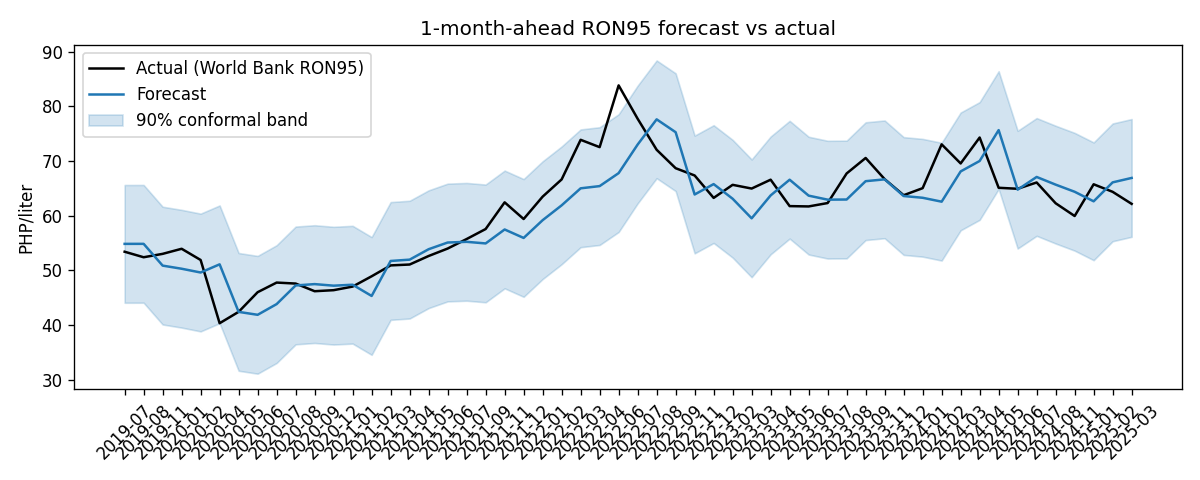
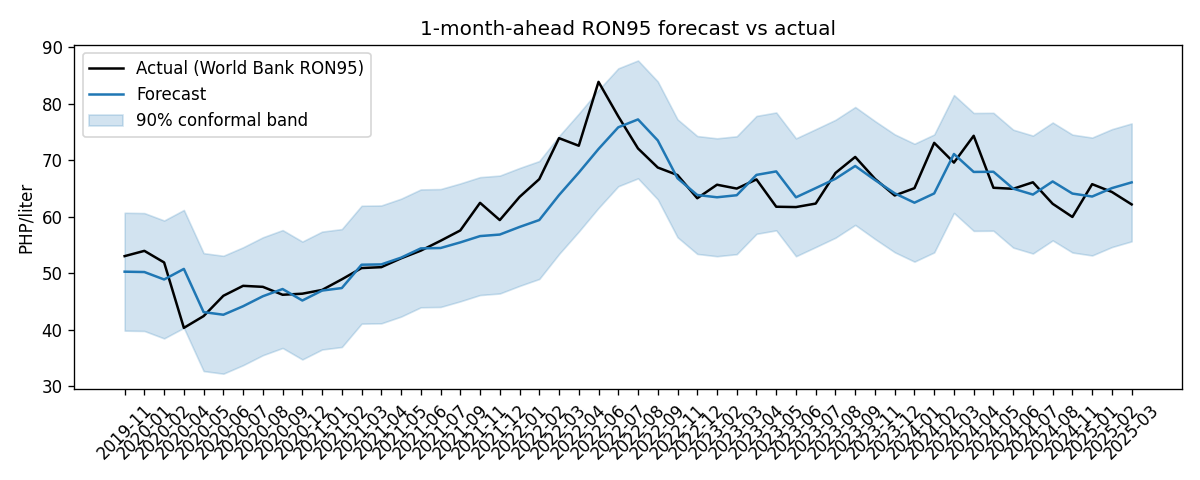
feat(benchmark): ablation-driven variant selection; headline uses winner

diff --git a/ph_economic_ai/benchmark/run.py b/ph_economic_ai/benchmark/run.py
@@ -10,6 +10,8 @@ import pandas as pd
 from sklearn.ensemble import HistGradientBoostingRegressor
 
 from ph_economic_ai.benchmark import baselines, conformal, figures, report
+from ph_economic_ai.benchmark import ablation as ablation_mod
+from ph_economic_ai.benchmark.features import build_feature_frame, make_variant, VARIANTS
 from ph_economic_ai.benchmark.ground_truth import load_world_bank_ron95
 from ph_economic_ai.benchmark.backtest import walk_forward
 from ph_economic_ai.benchmark.metrics import mae, rmse, mape, mase, skill_score
@@ -32,27 +34,35 @@ def main():
     feats = pd.read_csv(FEATURES_CSV, dtype={'date': str}).set_index('date')
     df = feats.join(gold.rename('ron95'), how='inner').dropna().sort_index()
 
-    # True 1-month-ahead design: predict ron95[i] from the PREVIOUS month's macro
-    # drivers plus the previous month's ron95 (so the model has everything the
-    # random-walk baseline has, plus extra signal — a fair test of added value).
-    design = df.drop(columns=['ron95']).shift(1)
-    design['prev_ron95'] = df['ron95'].shift(1)
-    design['ron95'] = df['ron95']
-    design = design.dropna().sort_index()
-    dates = design.index.tolist()
-    y = design['ron95'].to_numpy()
-    X = design.drop(columns=['ron95']).to_numpy()
+    # ── Phase-2: ablation over feature variants, pick the winner by the gate ──
+    frame = build_feature_frame(df)
+    ablation_rows = ablation_mod.run_ablation(
+        frame, list(VARIANTS.keys()), _hgb_predict_fn, MIN_TRAIN)
+    winner = ablation_mod.select_winner(ablation_rows)
+    selected = winner['name']
+    print('Ablation (skill vs random walk):')
+    for r in sorted(ablation_rows, key=lambda x: -x['skill_vs_rw']):
+        mark = ' <= selected' if r['name'] == selected else ''
+        print(f"  {r['name']:<18} skill={r['skill_vs_rw']:+.3f} "
+              f"band90=P{r['band90']:.2f} rmse=P{r['rmse']:.2f}{mark}")
 
-    model_bt = walk_forward(y, X, _hgb_predict_fn, MIN_TRAIN)
-    rw_bt = walk_forward(y, None, lambda Xt, yt, xn: baselines.random_walk_next(yt), MIN_TRAIN)
-    sn_bt = walk_forward(y, None, lambda Xt, yt, xn: baselines.seasonal_naive_next(yt, 12), MIN_TRAIN)
+    # Re-run the winning variant to get its reconstructed predictions for the report.
+    v = make_variant(selected, frame)
+    bt = walk_forward(v.y_model, v.X, _hgb_predict_fn, MIN_TRAIN)
+    idx = bt['index']
+    dates = [frame.index[i] for i in idx]
+    yp = bt['y_pred'] + v.structural[idx]      # reconstruct to RON95 space
+    yt = v.y_actual[idx]
 
-    yt, yp = model_bt['y_true'], model_bt['y_pred']
+    rw_bt = walk_forward(v.y_actual, None,
+                         lambda Xt, ytr, xn: float(ytr[-1]), MIN_TRAIN)
+    sn_bt = walk_forward(v.y_actual, None,
+                         lambda Xt, ytr, xn: baselines.seasonal_naive_next(ytr, 12), MIN_TRAIN)
     rmse_model = rmse(yt, yp)
     rmse_rw = rmse(rw_bt['y_true'], rw_bt['y_pred'])
     rmse_sn = rmse(sn_bt['y_true'], sn_bt['y_pred'])
 
-    res = model_bt['residuals']
+    res = yt - yp
     half = len(res) // 2
     cal_res, val_true, val_pred = res[:half], yt[half:], yp[half:]
     calib = conformal.build_calibration_table(cal_res, val_true, val_pred, CONFORMAL_LEVELS)
@@ -66,16 +76,17 @@ def main():
     rep = report.build_report(
         date_range=(dates[0], dates[-1]), n_months=len(df),
         model_metrics={'mae': round(mae(yt, yp), 4), 'rmse': round(rmse_model, 4),
-                       'mape': round(mape(yt, yp), 4), 'mase': round(mase(yt, yp, y[:MIN_TRAIN]), 4)},
+                       'mape': round(mape(yt, yp), 4), 'mase': round(mase(yt, yp, v.y_actual[:MIN_TRAIN]), 4)},
         baseline_metrics={'random_walk': {'rmse': round(rmse_rw, 4)},
                           'seasonal_naive': {'rmse': round(rmse_sn, 4)}},
         skill={'vs_random_walk': round(skill_score(rmse_model, rmse_rw), 4),
                'vs_seasonal_naive': round(skill_score(rmse_model, rmse_sn), 4)},
         calibration=calib, proxy=proxy_stats, data_hash=data_hash,
+        ablation=ablation_rows, selected_variant=selected,
     )
     report.write_report(rep)
 
-    bt_dates = [dates[i] for i in model_bt['index']]
+    bt_dates = dates
     figures.plot_pred_vs_actual(bt_dates, yt, yp, yp - qhat90, yp + qhat90)
     figures.plot_baseline_bars(rmse_model, rmse_rw, rmse_sn)
     figures.plot_proxy_scatter(proxy.values, df['ron95'].values)
@@ -83,7 +94,14 @@ def main():
     pd.DataFrame({'date': bt_dates, 'y_true': yt, 'y_pred': yp,
                   'low90': yp - qhat90, 'high90': yp + qhat90}
                  ).to_csv(report.ARTIFACTS / 'backtest_predictions.csv', index=False)
-    print(f"Skill vs random walk: {rep['headline_skill_vs_random_walk']:+.3f} "
+
+    import json as _json
+    (report.ARTIFACTS / 'ablation_table.json').write_text(
+        _json.dumps({'selected': selected, 'rows': ablation_rows}, indent=2),
+        encoding='utf-8')
+
+    print(f"Selected variant: {selected} | "
+          f"skill vs random walk: {rep['headline_skill_vs_random_walk']:+.3f} "
           f"over {rep['n_months']} months")
 
 